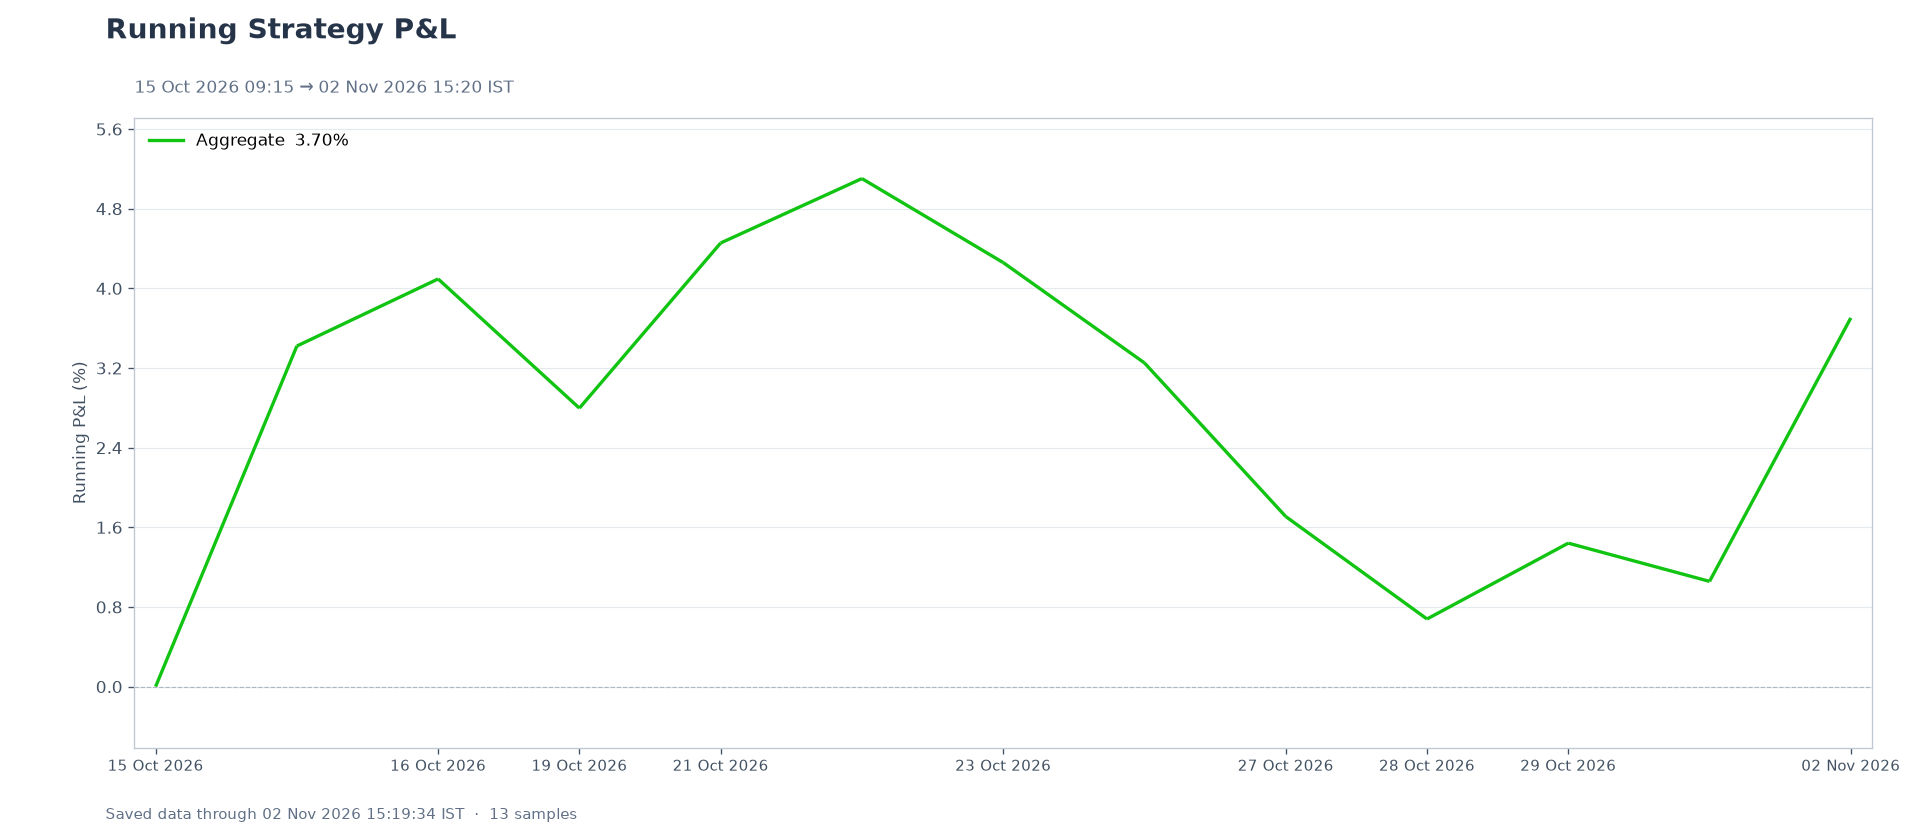
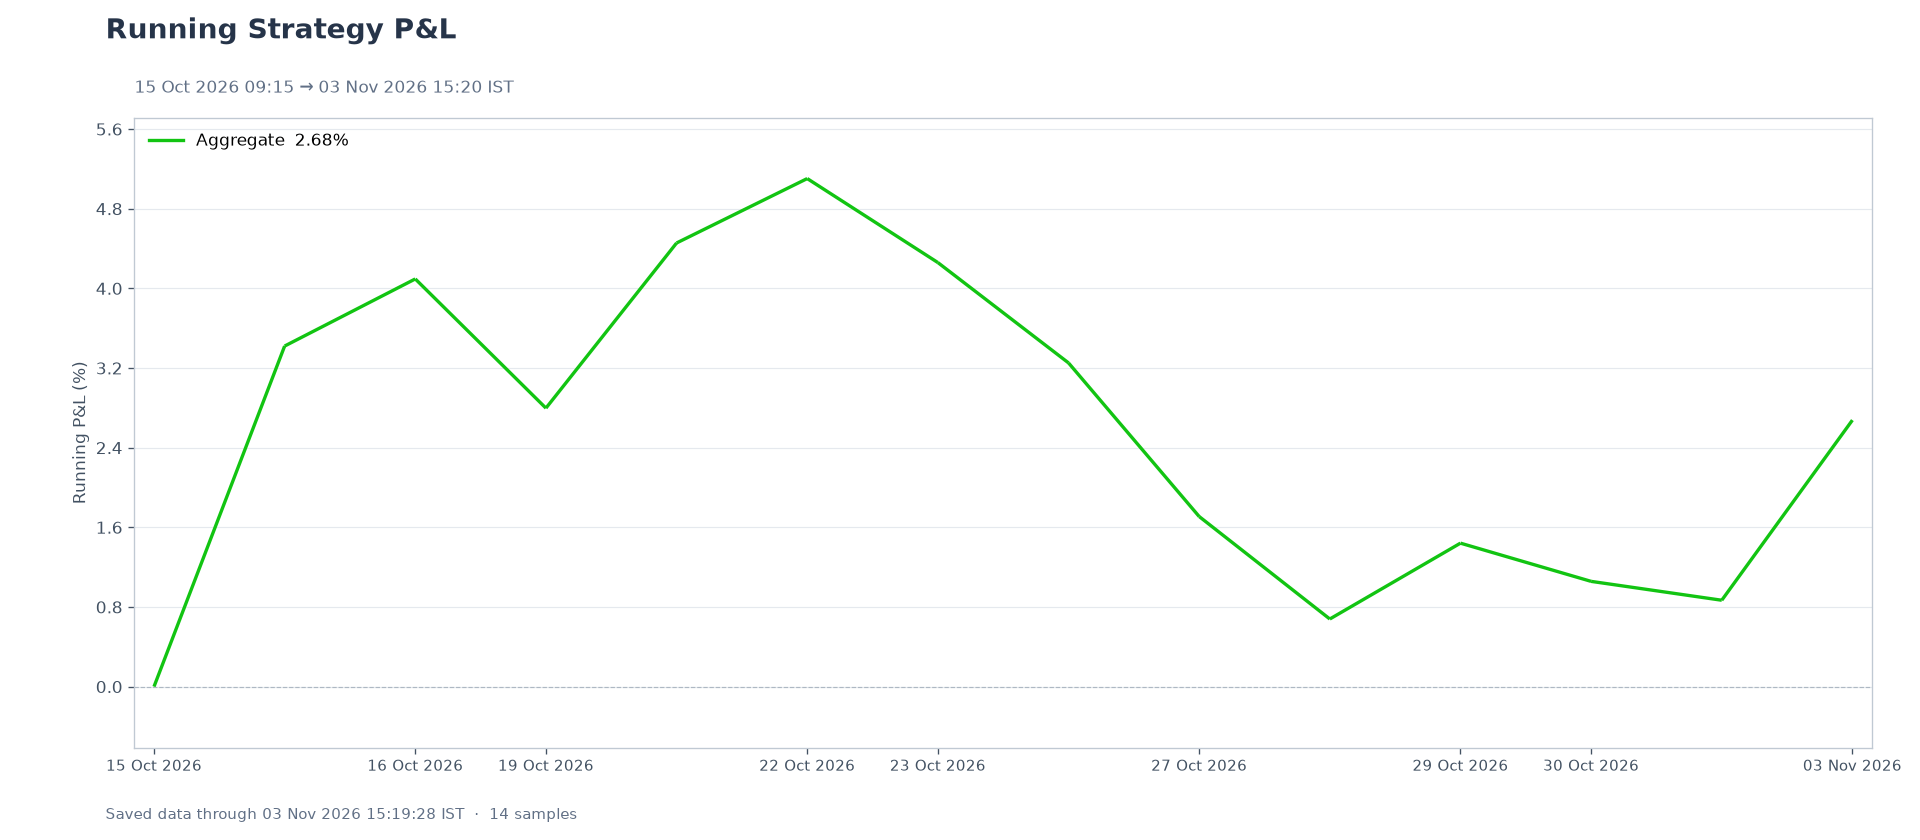
Nabz report 2026-11-03

diff --git a/content/daily/20261103.md b/content/daily/20261103.md
@@ -1,0 +1,9 @@
+---
+title: "20261103"
+date: 2026-11-03T15:20:00+05:30
+slug: "20261103"
+folder: "20261103"
+iso_date: "2026-11-03"
+preview: false
+strategy_today: "1520-strategy-today-REL.png"
+---

diff --git a/content/i/05bb1979ee668ccc8bf0.md b/content/i/05bb1979ee668ccc8bf0.md
@@ -1,0 +1,4 @@
+---
+title: "Today's P&L"
+image: "i/05bb1979ee668ccc8bf0.png"
+---
